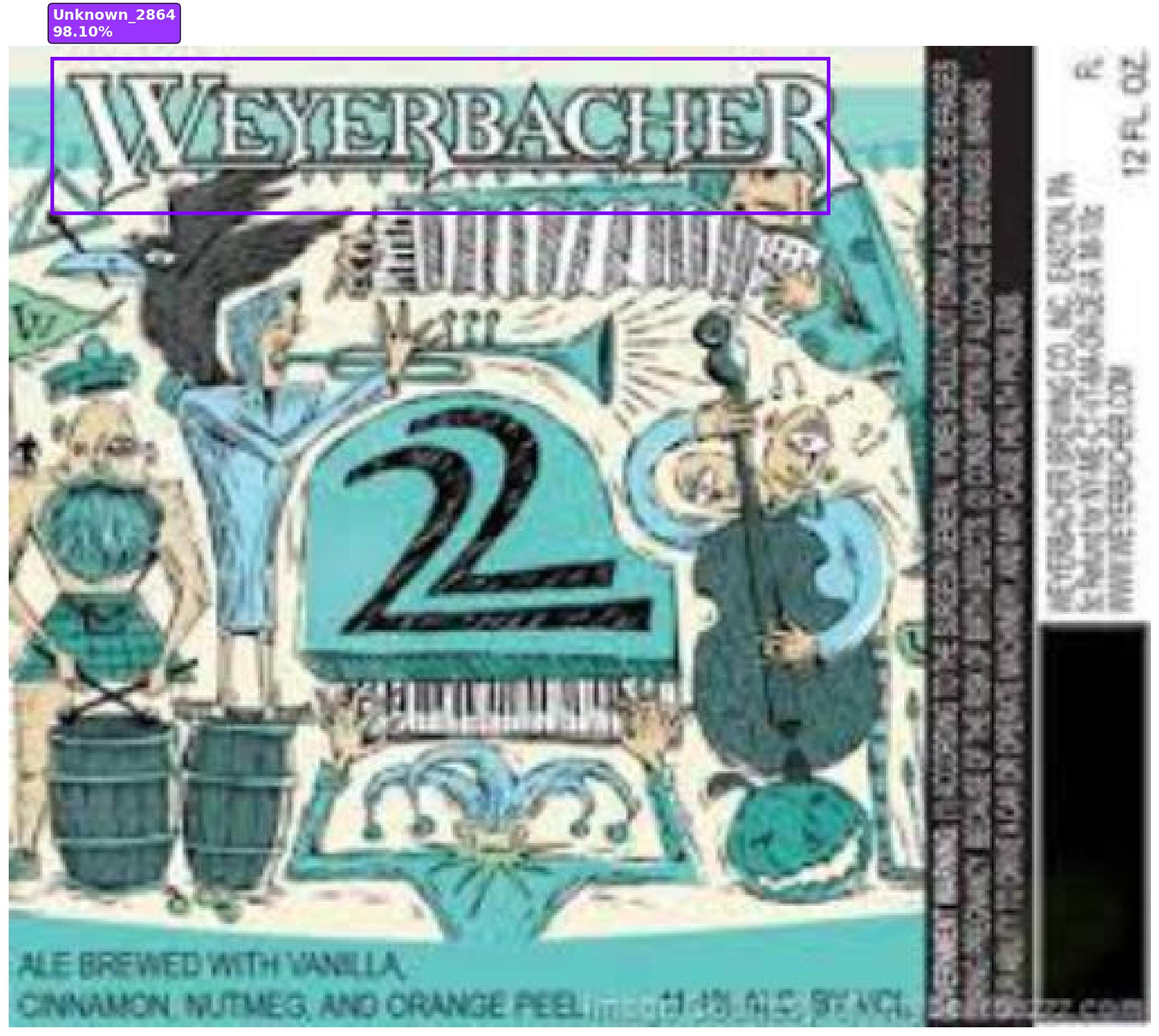
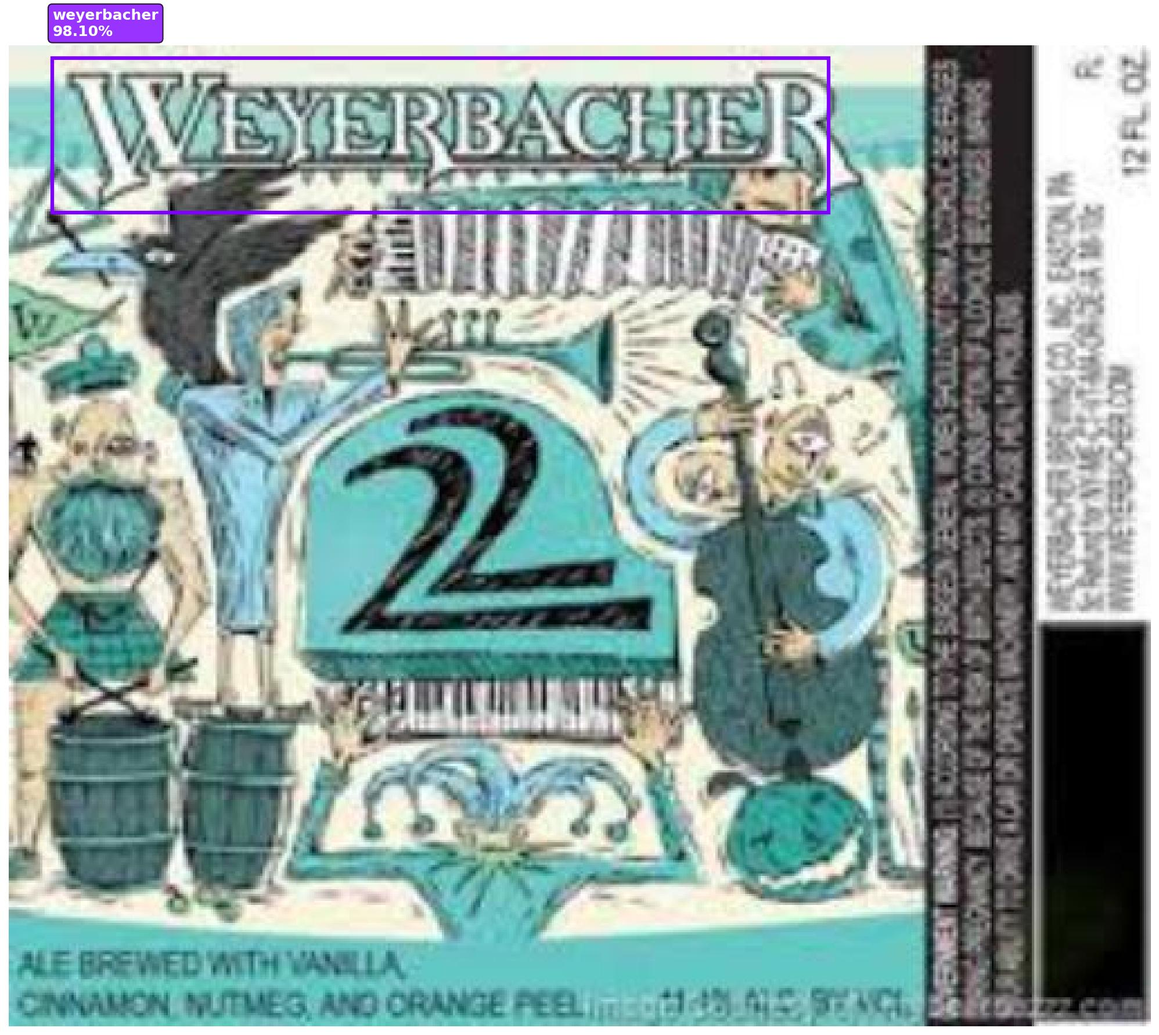
{recog}: mapping brand name

diff --git a/pipeline/logo_pipeline.py b/pipeline/logo_pipeline.py
@@ -43,7 +43,8 @@ class LogoDetectionRecognitionPipeline:
         self,
         yolo_model_path='detection/runs/detect/logodet3k_yolov8s_baseline50/weights/best.pt',
         resnet_model_path='recognition/weights/model_for_inference.pth',
-        device='cuda'
+        device='cuda',
+        brand_mapping_path='LogoDet-3K/annotations.json'
     ):
         """
         Initialize the pipeline with trained models.
@@ -152,7 +153,7 @@ class LogoDetectionRecognitionPipeline:
                 
                 predictions = []
                 for prob, idx in zip(top_probs.cpu().numpy(), top_indices.cpu().numpy()):
-                    brand_name = self.idx_to_brand.get(str(int(idx)), f"Unknown_{idx}")
+                    brand_name = self.get_brand_name(idx)
                     predictions.append({
                         'brand': brand_name,
                         'confidence': float(prob),
@@ -167,6 +168,24 @@ class LogoDetectionRecognitionPipeline:
                 })
         
         return results, image_rgb
+    
+    def get_brand_name(self, class_idx):
+        """
+        Args:
+            class_idx: Class index (int or tensor)
+        
+        Returns:
+            str: Brand name
+        """
+        idx = int(class_idx)
+        
+        # Try both int and str keys
+        if idx in self.idx_to_brand:
+            return self.idx_to_brand[idx]
+        elif str(idx) in self.idx_to_brand:
+            return self.idx_to_brand[str(idx)]
+        else:
+            return f"Unknown_{idx}"
     
     def visualize_results(self, image_rgb, results, save_path=None, show=True):
         """
